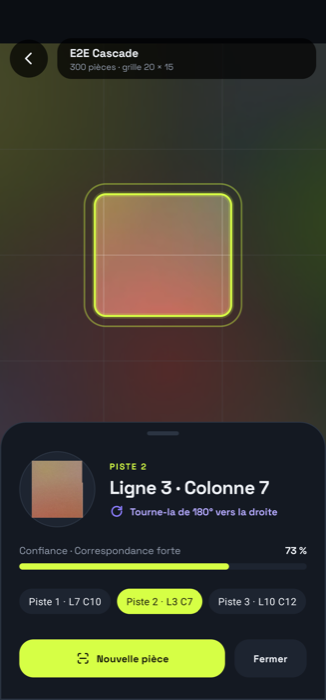
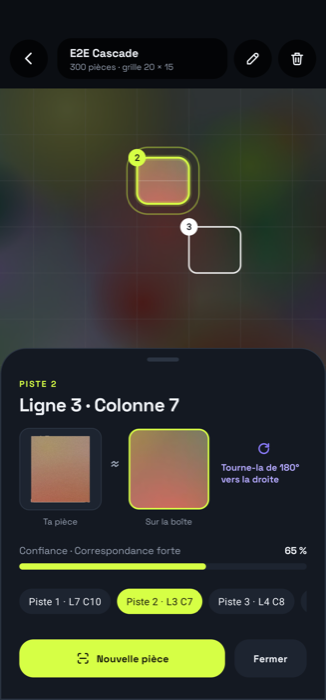
docs: architecture (package by feature, MVVM), refreshed lead screenshots

diff --git a/.claude/CLAUDE.md b/.claude/CLAUDE.md
@@ -9,16 +9,20 @@ Photograph a loose puzzle piece -> the app tells where it goes on the box image.
 - Targets: >70 % correct suggestions, < 3 s per recognition, app < 50 MB, no network.
 - Out of scope for now: completed-zone detection, history/export, community features, AI models.
 
-## Code map (`app/src/main/java/com/lilyan_lefevre/puzzleit`)
-- `feature/recognition/PieceMatcher.kt` - the algorithm, pure Kotlin (JVM-testable): grid pre-cut, segmentation
+## Code map (`app/src/main/java/com/lilyan_lefevre/puzzleit`) - package by feature, MVVM
+- `core/database` (Room, migrations in one file, Hilt module), `core/image` (shared image helpers), `core/ui` (reusable
+  views). No other cross-feature package: no `util`, `utils`, `shared`, `constants`.
+- `feature/project/` `data/` (Project, ProjectDao, ProjectRepository, ImageStorageManager), `list/` (fragment, adapter,
+  ProjectListViewModel), `create/` (ProjectCreation + PuzzleBounds fragments and ViewModels, BoxImageProcessor, GridProcessor).
+- `feature/puzzle/` the table: PuzzleWorkingFragment + ViewModel (`ScanState`, follows the project live, edit/delete),
+  PuzzleMapView (leads = piece-sized squares, tappable); `capture/` PieceCaptureFragment + ScanFrameView.
+- `feature/recognition/` `PieceMatcher.kt` - the algorithm, pure Kotlin (JVM-testable): grid pre-cut, segmentation
   (Mahalanobis to the table), outline reading (tilt + flat/tab/blank sides -> corner/edge constraints), 5x5 Lab grid
-  descriptor (mean, lightness ramp and contrast removed), confidence.
-  `PieceRecognizer` = Bitmap glue, crops the square under the viewfinder, archives the last 30 captures + verdicts
-  in `files/captures` (adb pull) for real-world debugging. The science is explained in `documentation/` (French).
-- `feature/recognition/PuzzleMapView.kt` - pan/zoom box image, spotlight, scan sweep. `PuzzleLoaderView` - loader.
-- `feature/puzzle/` - working screen (`PuzzleWorkingFragment` + ViewModel state machine `ScanState`), `PieceCaptureFragment`.
-- `feature/project`, `feature/storage`, `shared/` - projects, Room DB, image utils (pre-existing).
-- A reference image = `Project.warpedPath` (rectified) else `imagePath`; grid = `gridRows/gridCols` else computed.
+  descriptor (mean, lightness ramp and contrast removed), confidence. `PieceRecognizer` = Bitmap glue, crops the square
+  under the viewfinder, archives the last 200 captures + verdicts in `files/captures` (adb pull) for real-world debugging.
+- Fragments only render state, handle system intents and navigate; IO, image work and validation live in ViewModels
+  or injected classes.
+- The science is explained in `documentation/` (French); README screenshots live in `documentation/screenshots`.
 
 ## Conventions
 - Conventional commits (`feat:`, `fix:`, `test:`, `ci:`, `chore:`), one topic per commit, push when tested.
@@ -49,6 +53,5 @@ Photograph a loose puzzle piece -> the app tells where it goes on the box image.
 - The project folder lives in iCloud Documents: macOS sometimes creates `* 2.*` duplicates in `app/build`, which
   breaks resource parsing. Fix: `find app/build -name "* 2*" -prune -exec rm -rf {} +`.
 - Leads 2-3 get a derived confidence (best confidence scaled by their own score), not an independent one.
-- The camera/PieceBounds flow from `main` (device photo app + quad crop) is still in the nav graph, unused by the scan flow.
 - Test fixtures must look like real photos (grain, real blur): smooth synthetic images sit at the sharpness threshold
   (`PieceMatcher.MIN_SHARPNESS`) and make tests flip between devices.

diff --git a/README.md b/README.md
@@ -50,29 +50,41 @@ The science, step by step (in French): [`documentation/`](documentation/README.m
 
 ## Architecture
 
-Single activity, MVVM, Hilt, Room, CameraX, OpenCV (box rectification). The matching algorithm is plain Kotlin,
-so it runs and is tested on the JVM.
+Single activity, **package by feature**, **MVVM** (one ViewModel per screen, fragments only render and navigate),
+Hilt, Room, CameraX, OpenCV for the box framing. The matching algorithm is plain Kotlin, tested on the JVM.
 
 ```mermaid
 flowchart TB
-  subgraph UI
-    L[ProjectListFragment] --> W[PuzzleWorkingFragment]
-    W --> C[PieceCaptureFragment]
-    C -- photo path --> W
-    W --- M[PuzzleMapView<br/>pan, zoom, spotlight]
+  subgraph project[feature/project]
+    L[list: Fragment + ProjectListViewModel]
+    C[create: Fragment + ProjectCreationViewModel]
+    B[create: PuzzleBoundsFragment + ViewModel]
+    D[(data: Project, DAO, Repository,<br/>ImageStorageManager)]
+    P[create: BoxImageProcessor<br/>OpenCV detection, rectification]
   end
-  W --> VM[PuzzleWorkingViewModel<br/>ScanState: Idle, Analyzing, Result, Blurry, NoPiece]
-  VM --> R[PieceRecognizer<br/>Bitmap glue]
-  R --> PM[PieceMatcher<br/>pure Kotlin]
-  VM --> Repo[ProjectRepository] --> DB[(Room)]
+  subgraph puzzle[feature/puzzle]
+    W[PuzzleWorkingFragment + ViewModel<br/>ScanState] --- M[PuzzleMapView]
+    K[capture: PieceCaptureFragment]
+  end
+  subgraph recognition[feature/recognition]
+    R[PieceRecognizer] --> PM[PieceMatcher<br/>pure Kotlin]
+  end
+  L --> W --> K
+  L --> C --> B
+  C --> P
+  B --> P
+  L & C & W --> D
+  W --> R
 ```
 
-| Path | Role |
+| Package | Content |
 |---|---|
-| `feature/recognition` | `PieceMatcher` (algorithm), `PieceRecognizer`, `PuzzleMapView`, `PuzzleLoaderView` |
-| `feature/puzzle` | working screen, scan state machine, piece capture |
-| `feature/project` | project list, creation, box bounds |
-| `shared` | Room database, image utils, shared views |
+| `core/database` | Room database, migrations, Hilt module |
+| `core/image` | image helpers shared by features (EXIF rotation, warp, camera file) |
+| `core/ui` | reusable views: corner selection, loader |
+| `feature/project` | `data/` (entity, DAO, repository, image storage), `list/`, `create/` (form, box framing) |
+| `feature/puzzle` | the puzzle table (map, scan state machine) and `capture/` (piece viewfinder) |
+| `feature/recognition` | `PieceMatcher` (algorithm) and `PieceRecognizer` (files and bitmaps) |
 
 ## Tests
 
